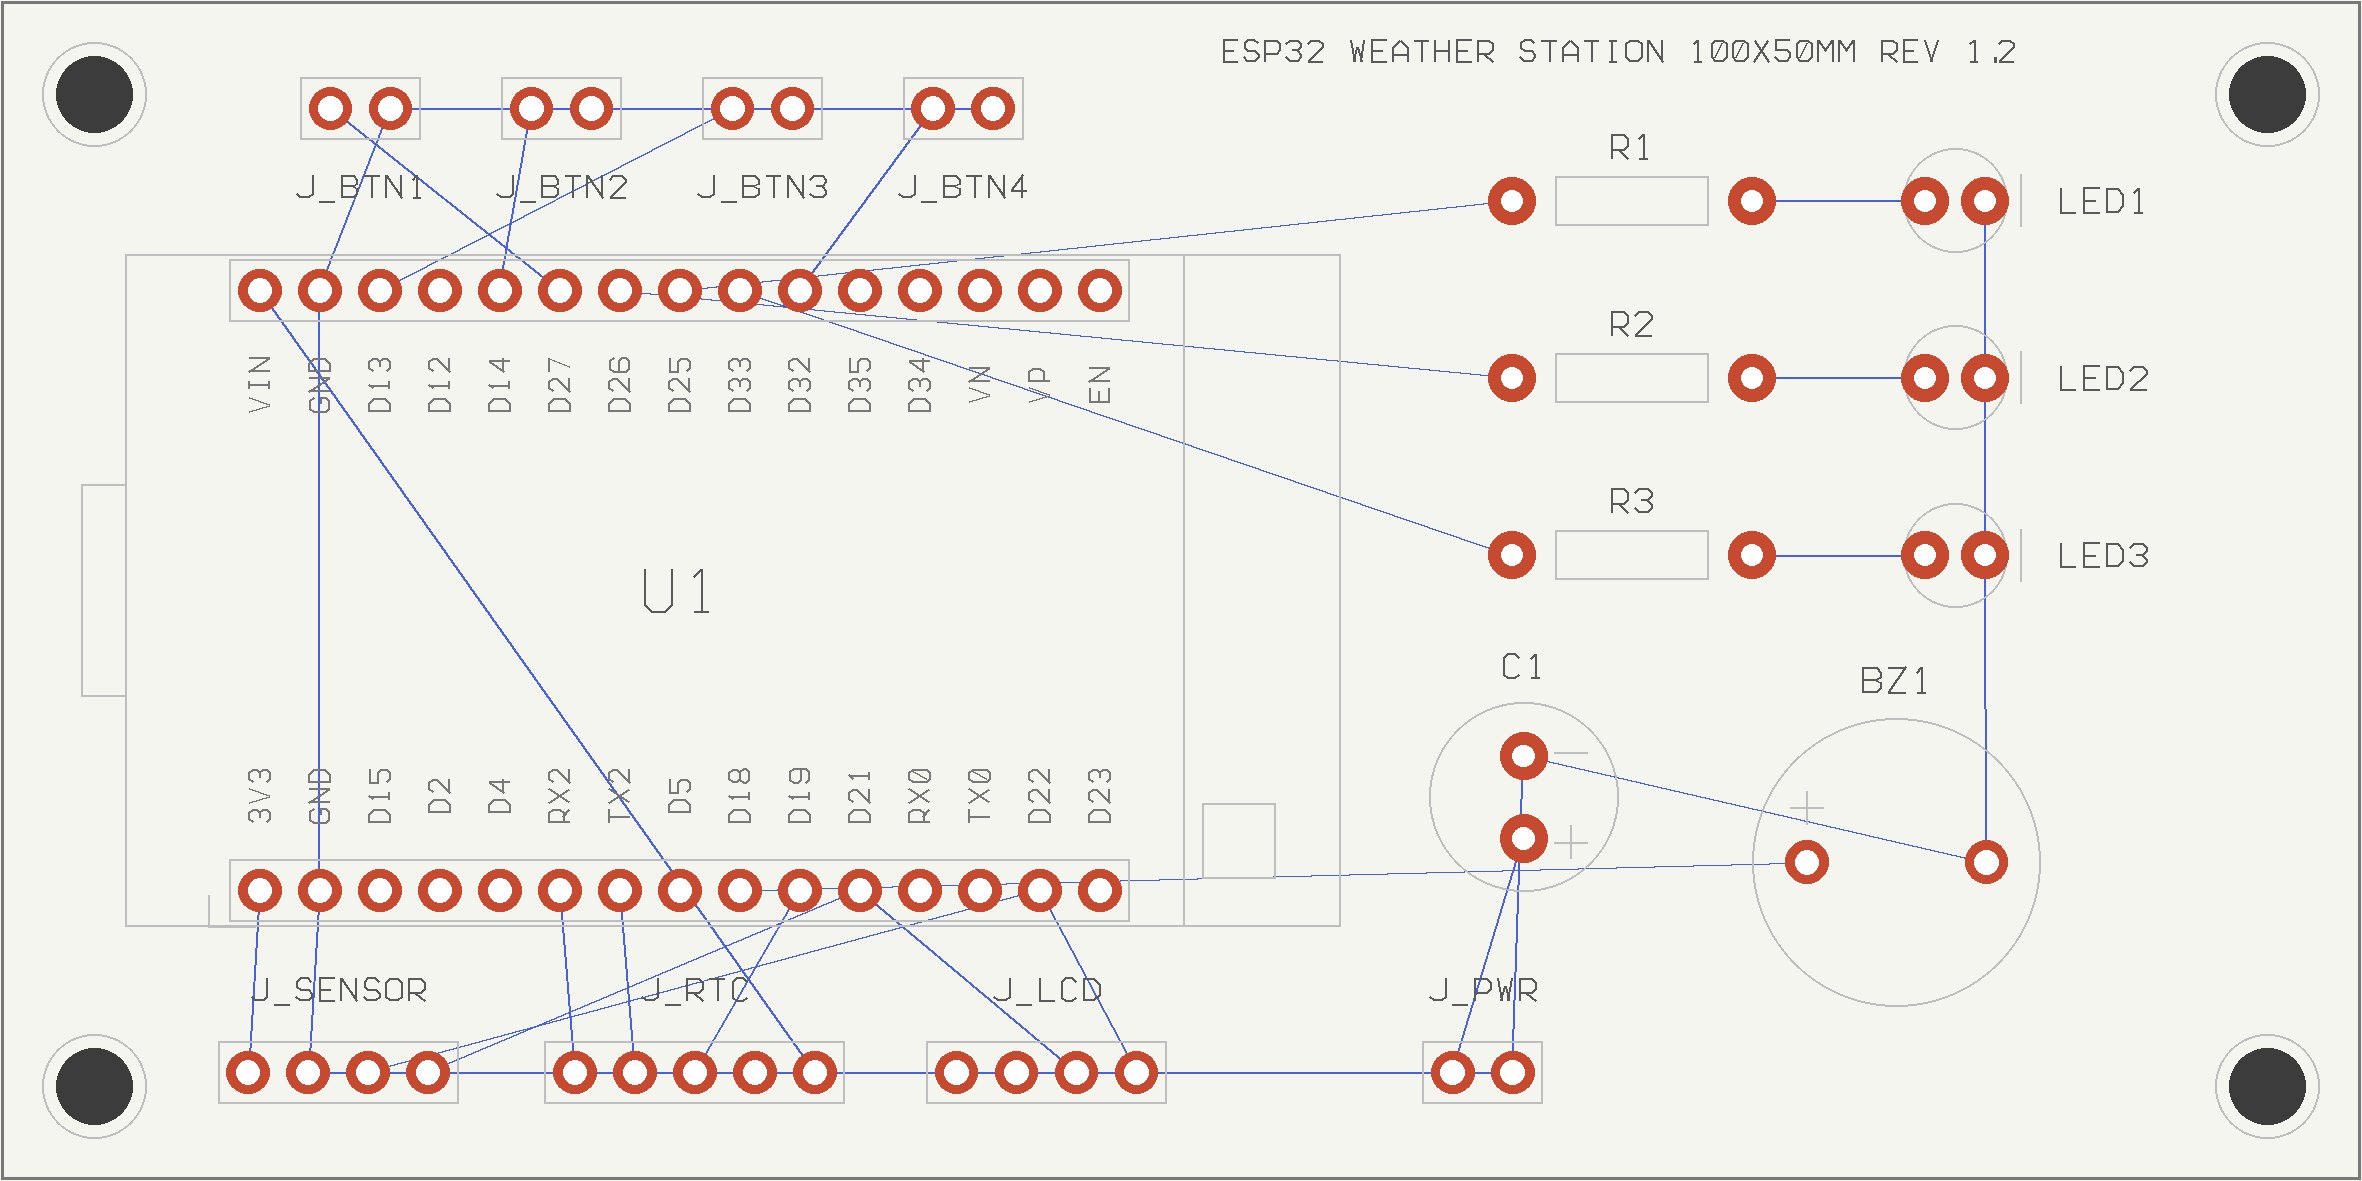
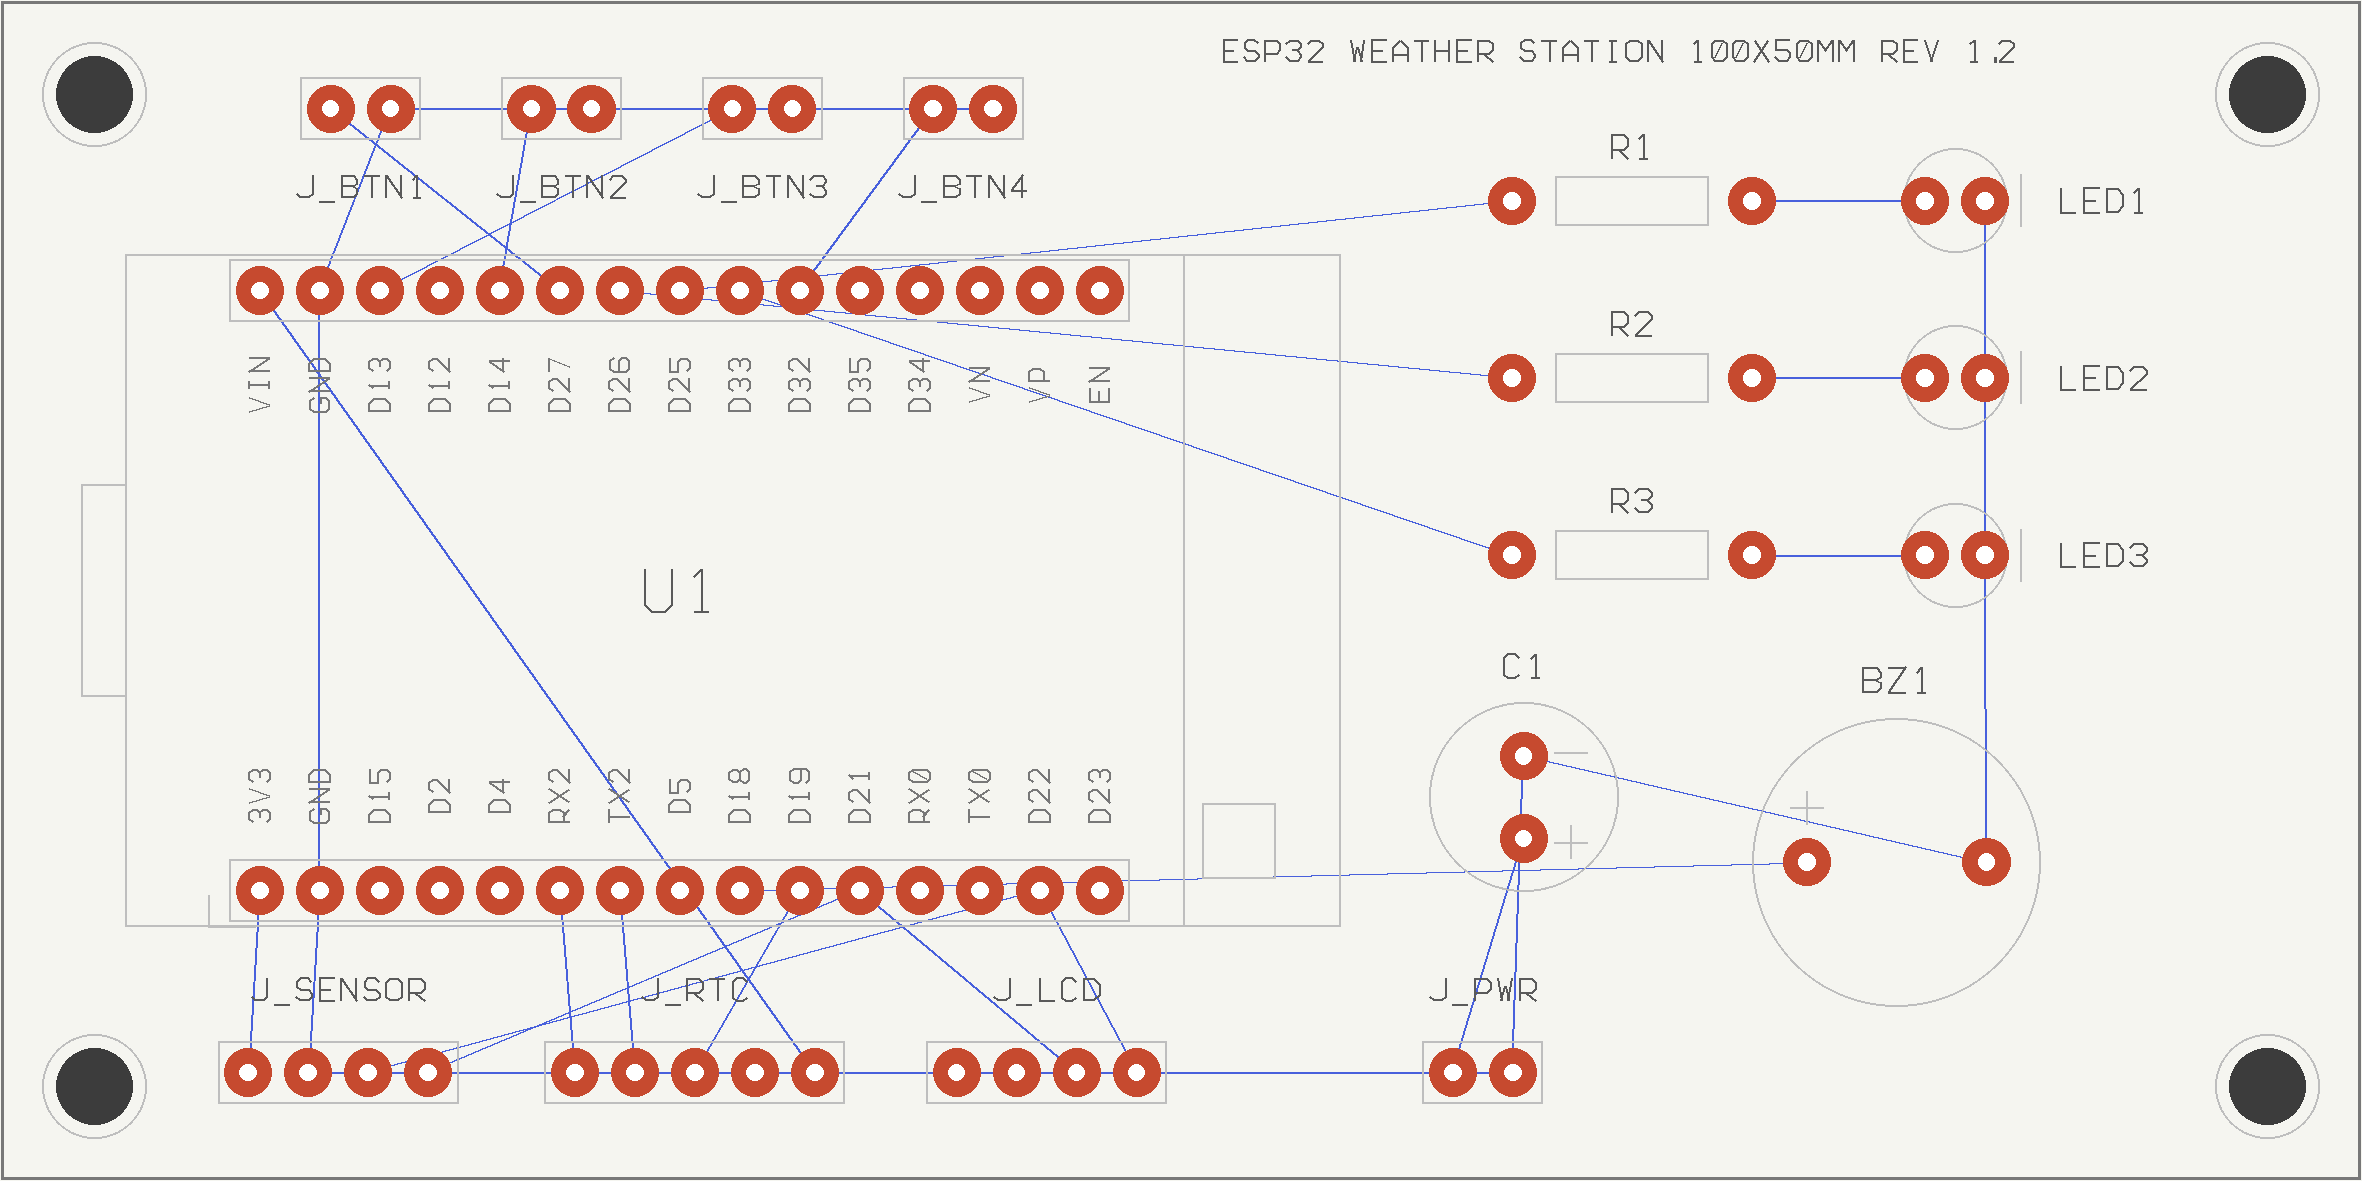
Set all component pads to 2.0 mm outer / 0.7 mm hole on EasyEDA PCB

diff --git a/tools/pcb_common.py b/tools/pcb_common.py
@@ -44,10 +44,10 @@ LEFT_ROW = ["3V3", "GND", "D15", "D2", "D4", "RX2", "TX2", "D5", "D18", "D19",
 RIGHT_ROW = ["VIN", "GND2", "D13", "D12", "D14", "D27", "D26", "D25", "D33",
              "D32", "D35", "D34", "VN", "VP", "EN"]
 
-PAD_HDR = 1.8          # 2.54 mm header pad
-DRILL_HDR = 1.0
-PAD_SMALL = 2.0        # resistor / LED / capacitor lead
-DRILL_SMALL = 0.9
+PAD_HDR = 2.0          # 2.54 mm header pad (outer 2.0 mm, hole 0.7 mm)
+DRILL_HDR = 0.7
+PAD_SMALL = 2.0        # resistor / LED / capacitor lead (outer 2.0 mm, hole 0.7 mm)
+DRILL_SMALL = 0.7
 DRILL_MOUNT = 3.2      # mounting holes
 MOUNT_RING = 2.2       # silk circle radius around a mounting hole
 
@@ -168,7 +168,7 @@ class Footprint:
         if self.kind != "header":
             return None
         x, y = self.abs_pad(self.pads[0])
-        a = 1.05
+        a = 1.15
         return [(x - a, y - a), (x + a, y - a), (x + a, y + a), (x - a, y + a),
                 (x - a, y - a)]
 

diff --git a/README.md b/README.md
@@ -173,7 +173,7 @@ tie the two together.
 | physical keepout | non-`U1` pads ≥ 5.3 mm, non-`U1` silk ≥ 3.7 mm, and M3 holes ≥ 5.3 mm clear of `U1`'s full 51.45 × 28.33 mm PCB body |
 | pin 1 | `3V3`, bottom-left at the USB end (`VIN` top-left opposite it), `EN` at the far right |
 | footprints | `ESP32-DEVKIT-V1-30PIN_DZ`, headers `HDR-TH_1xN-P2.54-V-M`, `R_AXIAL-0.4`, `LED-TH_F5`, `CAP-TH_D8.0-P3.5`, `BUZ-TH_BD12.5` |
-| pads | ⌀1.8 mm / 1.0 mm drill on headers & `U1`, ⌀2.0 mm / 0.9 mm on R, LED, C1 |
+| pads | ⌀2.0 mm outer / ⌀0.7 mm hole on all component pads (`U1`, headers, R, LED, C1, BZ1) |
 
 Note on module footprint naming: the current schematic (`SCH_ESP32_WeatherStation_2026-11-11.json`)
 and EasyEDA PCB both keep the 30-pin **DOIT ESP32 DevKit V1** pinout and
